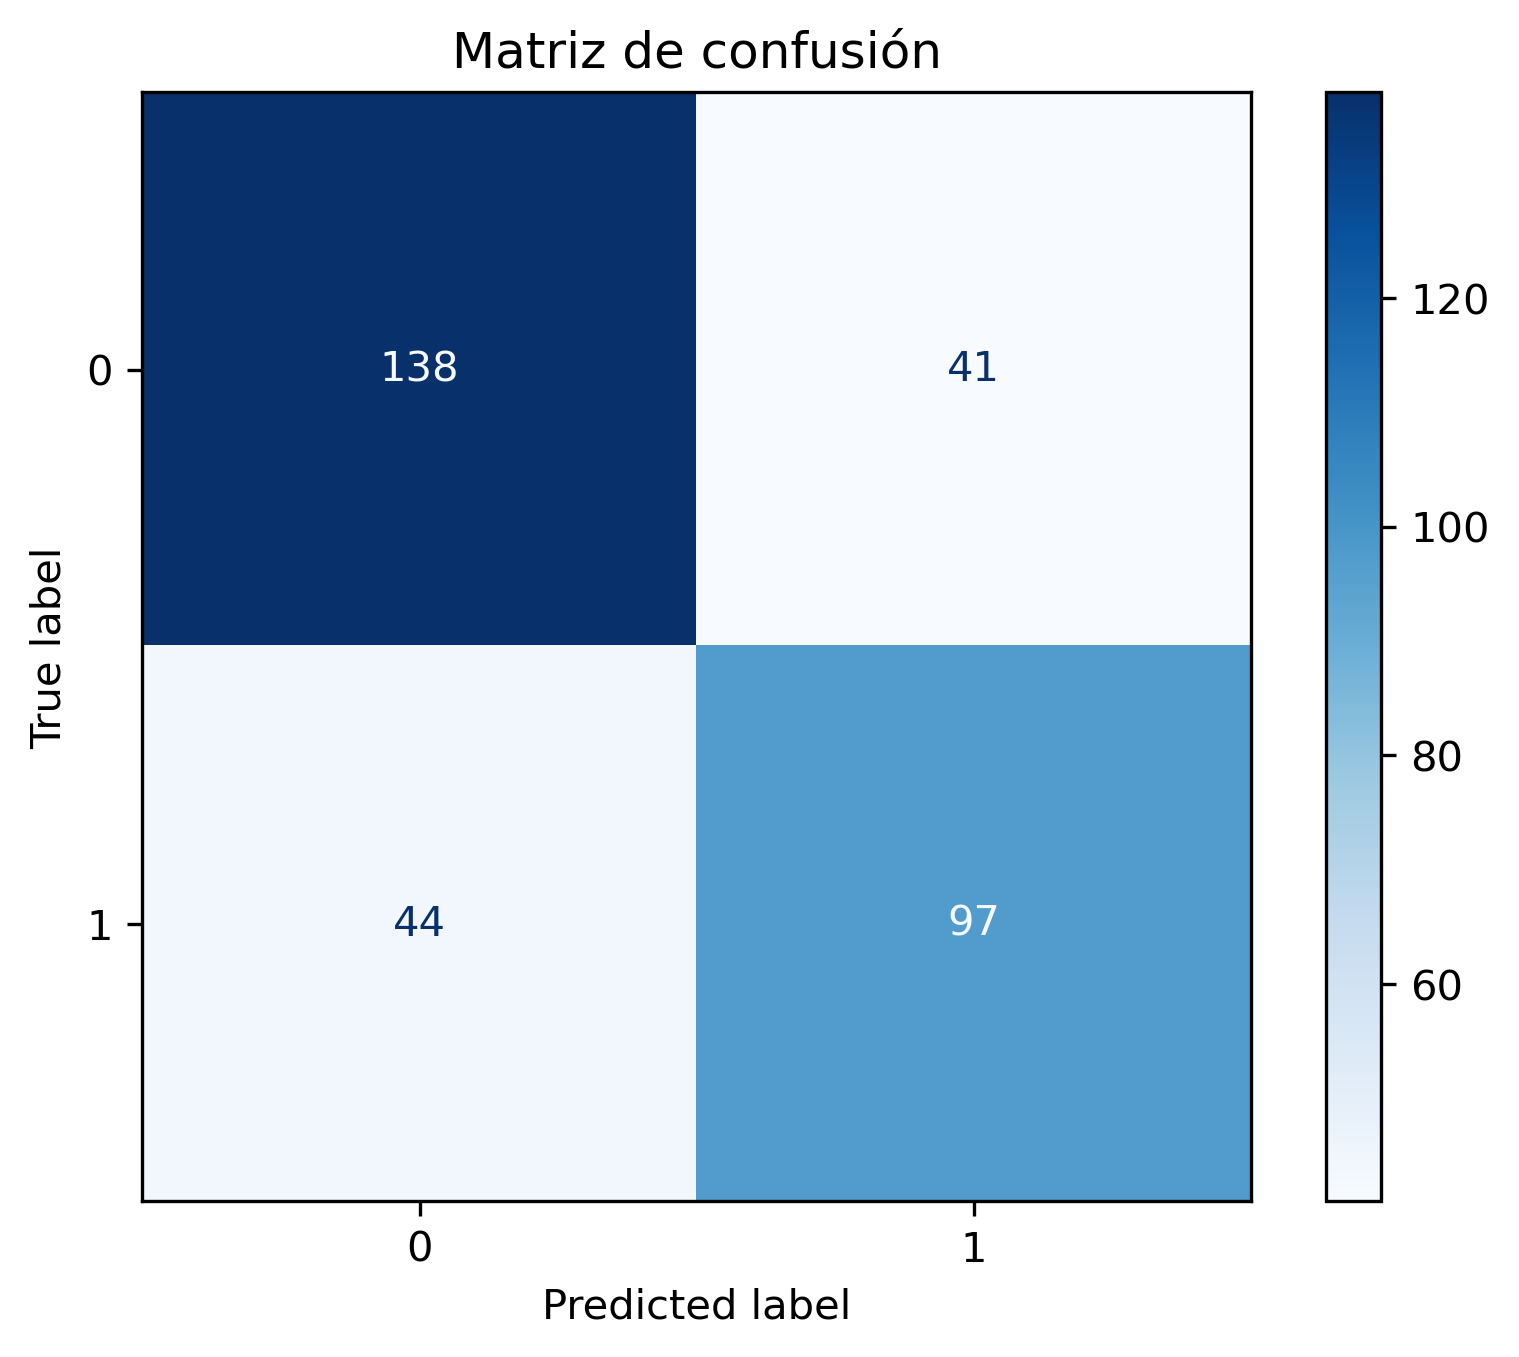
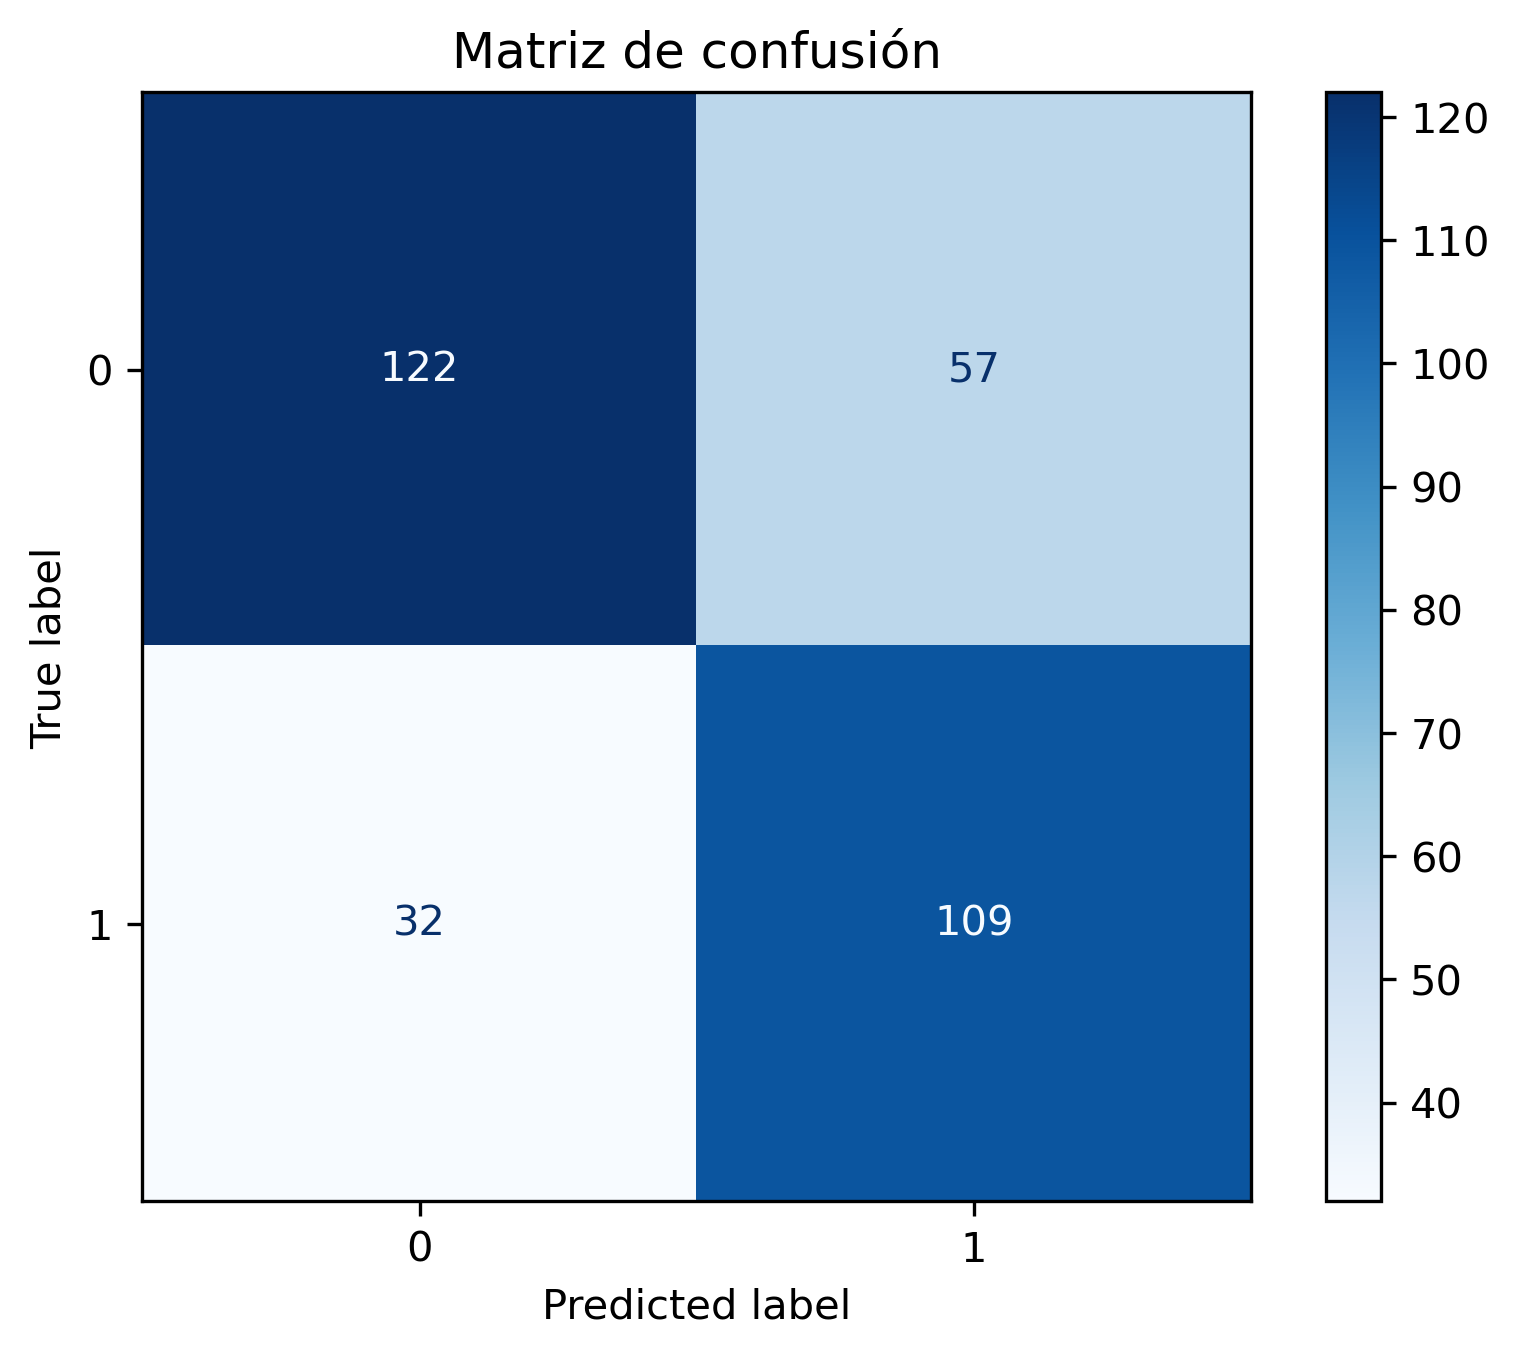
Modelo lr

diff --git a/core/modelos/modelo_LogReg.py b/core/modelos/modelo_LogReg.py
@@ -1,10 +1,10 @@
 # Librerías
-from sklearn.svm import SVC
+from sklearn.linear_model import LogisticRegression
 from sklearn.model_selection import cross_val_score, GridSearchCV
 from sklearn.metrics import classification_report, confusion_matrix
 
-# 9. **SVM**
-class SupportVectorMachineClasificador:
+# 9. **Bosques Aleatorios (Random Forest)**
+class RegresionLogistica:
     '''Implementacón con grilla de hiperparámetros'''
     def __init__(self, X_train, X_test, y_train, y_test):
         self.X_train=X_train
@@ -12,27 +12,26 @@ class SupportVectorMachineClasificador:
         self.y_train=y_train
         self.y_test=y_test
         self.y_pred=None
-        self.svm_model=None
+        self.rl_model=None
         self.grid_search=None
         self.best_model=None
         self.best_hiperparametros=None
 
-    def definir_modelo(self, C=[0.1], kernel=['linear'], gamma=['auto'], degree=[2], scoring='accuracy', cv=None): # sin cv
+    def definir_modelo(self, C=[0.001], solver=['liblinear'], penalty=[12], scoring='accuracy', cv=None): # sin cv
 
         '''Crea el modelo'''
-        self.svm_model = SVC()
-        print("\nModelo definido!\n")
+        self.rl_model = LogisticRegression(max_iter=10000, random_state=42) # problema desbalanceado 10% class 1
+        print("\nModelo definido\n")
         
         '''Define la grilla'''
         param_grid = {
-            'C': [0.1, 1, 10],  # Parámetro de regularización
-            'kernel': ['linear', 'rbf', 'poly'],  # Tipos de núcleo
-            'gamma': ['scale', 'auto', 0.1, 1],  # Parámetro de kernel
-            'degree': [2, 3]  # Solo relevante para kernel 'poly'
+            'C': [0.001, 0.01, 0.1, 1, 10, 100],          # Regularización
+            'solver': ['liblinear', 'lbfgs'],             # Métodos de optimización
+            'penalty': ['l2', 'none'],                    # Tipo de regularización
             }
         
         self.grid_search = GridSearchCV(
-        estimator=self.svm_model, 
+        estimator=self.rl_model, 
         param_grid=param_grid, 
         scoring=scoring, 
         cv=cv,  # Validación cruzada

diff --git a/main.py b/main.py
@@ -16,6 +16,7 @@ from core.estadistica import Correlacion
 from core.modelos.modelo_rf import BosqueAleatorioClasificador
 from core.modelos.modelo_svm import SupportVectorMachineClasificador
 from core.modelos.modelo_GaussianNB import NaiveBayes
+from core.modelos.modelo_LogReg import RegresionLogistica
 from core.evaluacion import Evaluacion
 from core.modelos.error_rf import BosqueAleatorioError
 
@@ -156,8 +157,18 @@ modelo_nb.definir_modelo(scoring, cv)
 modelo_nb.entrenar_modelo()
 y_pred=modelo_nb.predecir(X_test)
 '''
-# Modelamiento Clasificación Logística
+# Modelamiento Regresión Logística
+modelo_rl=RegresionLogistica(X_train, X_test, y_train, y_test)
 
+C=[0.001, 0.01, 0.1, 1, 10, 100],          # Regularización
+solver=['liblinear', 'lbfgs'],             # Métodos de optimización
+penalty=['l2', 'none'],                    # Tipo de regularización
+scoring='recall'
+cv=5
+
+modelo_rl.definir_modelo(C, solver, penalty, scoring, cv)
+modelo_rl.entrenar_modelo()
+y_pred=modelo_rl.predecir(X_test)
 
 # Evaluación
 evaluacion=Evaluacion(y_test, y_pred)
